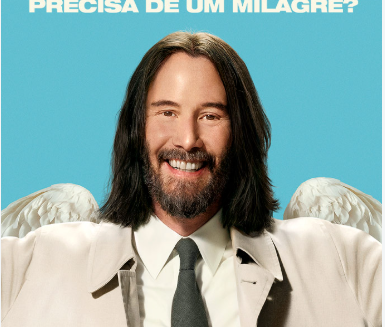
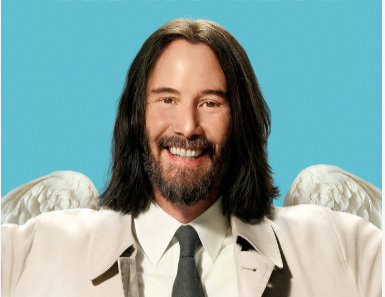
fix: corrige detetive e assassino

Changed region(s): [[0.0, 0.4242, 0.9974, 1.0], [0.0623, 0.0, 0.9351, 0.3939], [0.2805, 0.3333, 0.3117, 0.3636]]

diff --git a/app.js b/app.js
@@ -1560,6 +1560,10 @@ function myPlayer() {
   return (state.players || []).find((p) => p.id === state.playerId) || null;
 }
 
+function aliveOthers(playerId) {
+  return (state.players || []).filter((p) => p.alive && p.id !== playerId);
+}
+
 function renderGame() {
   const meta = state.room;
   if (!meta) return el(`<div class="wrap"><p>Carregando...</p></div>`);
